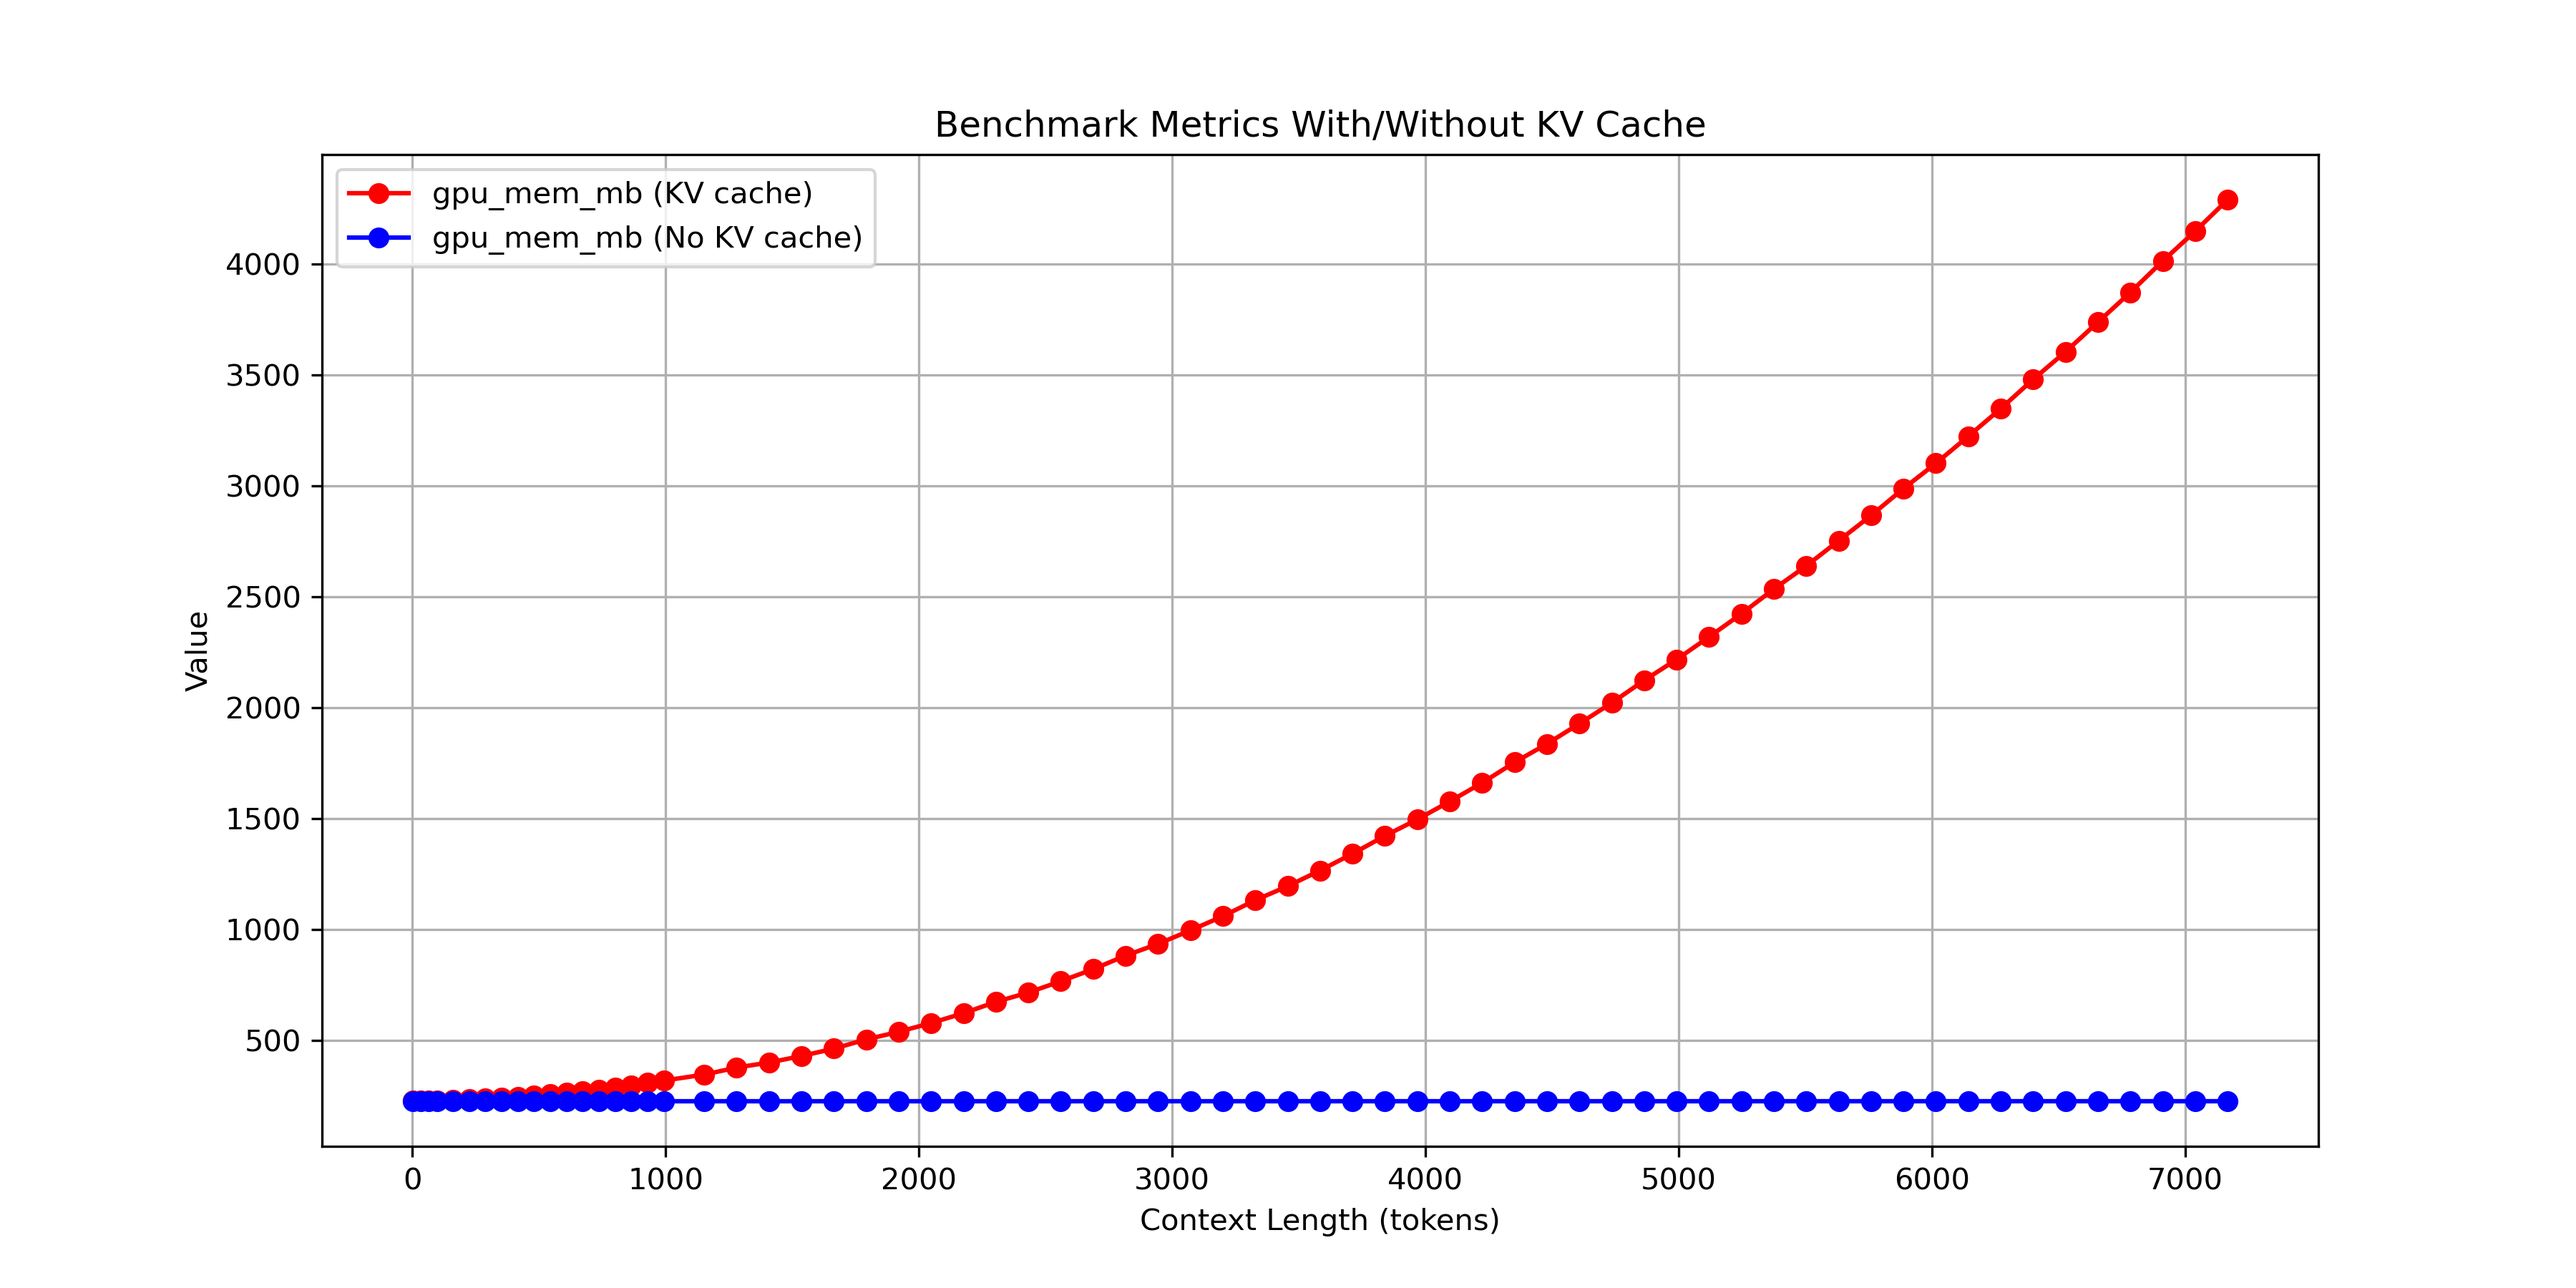
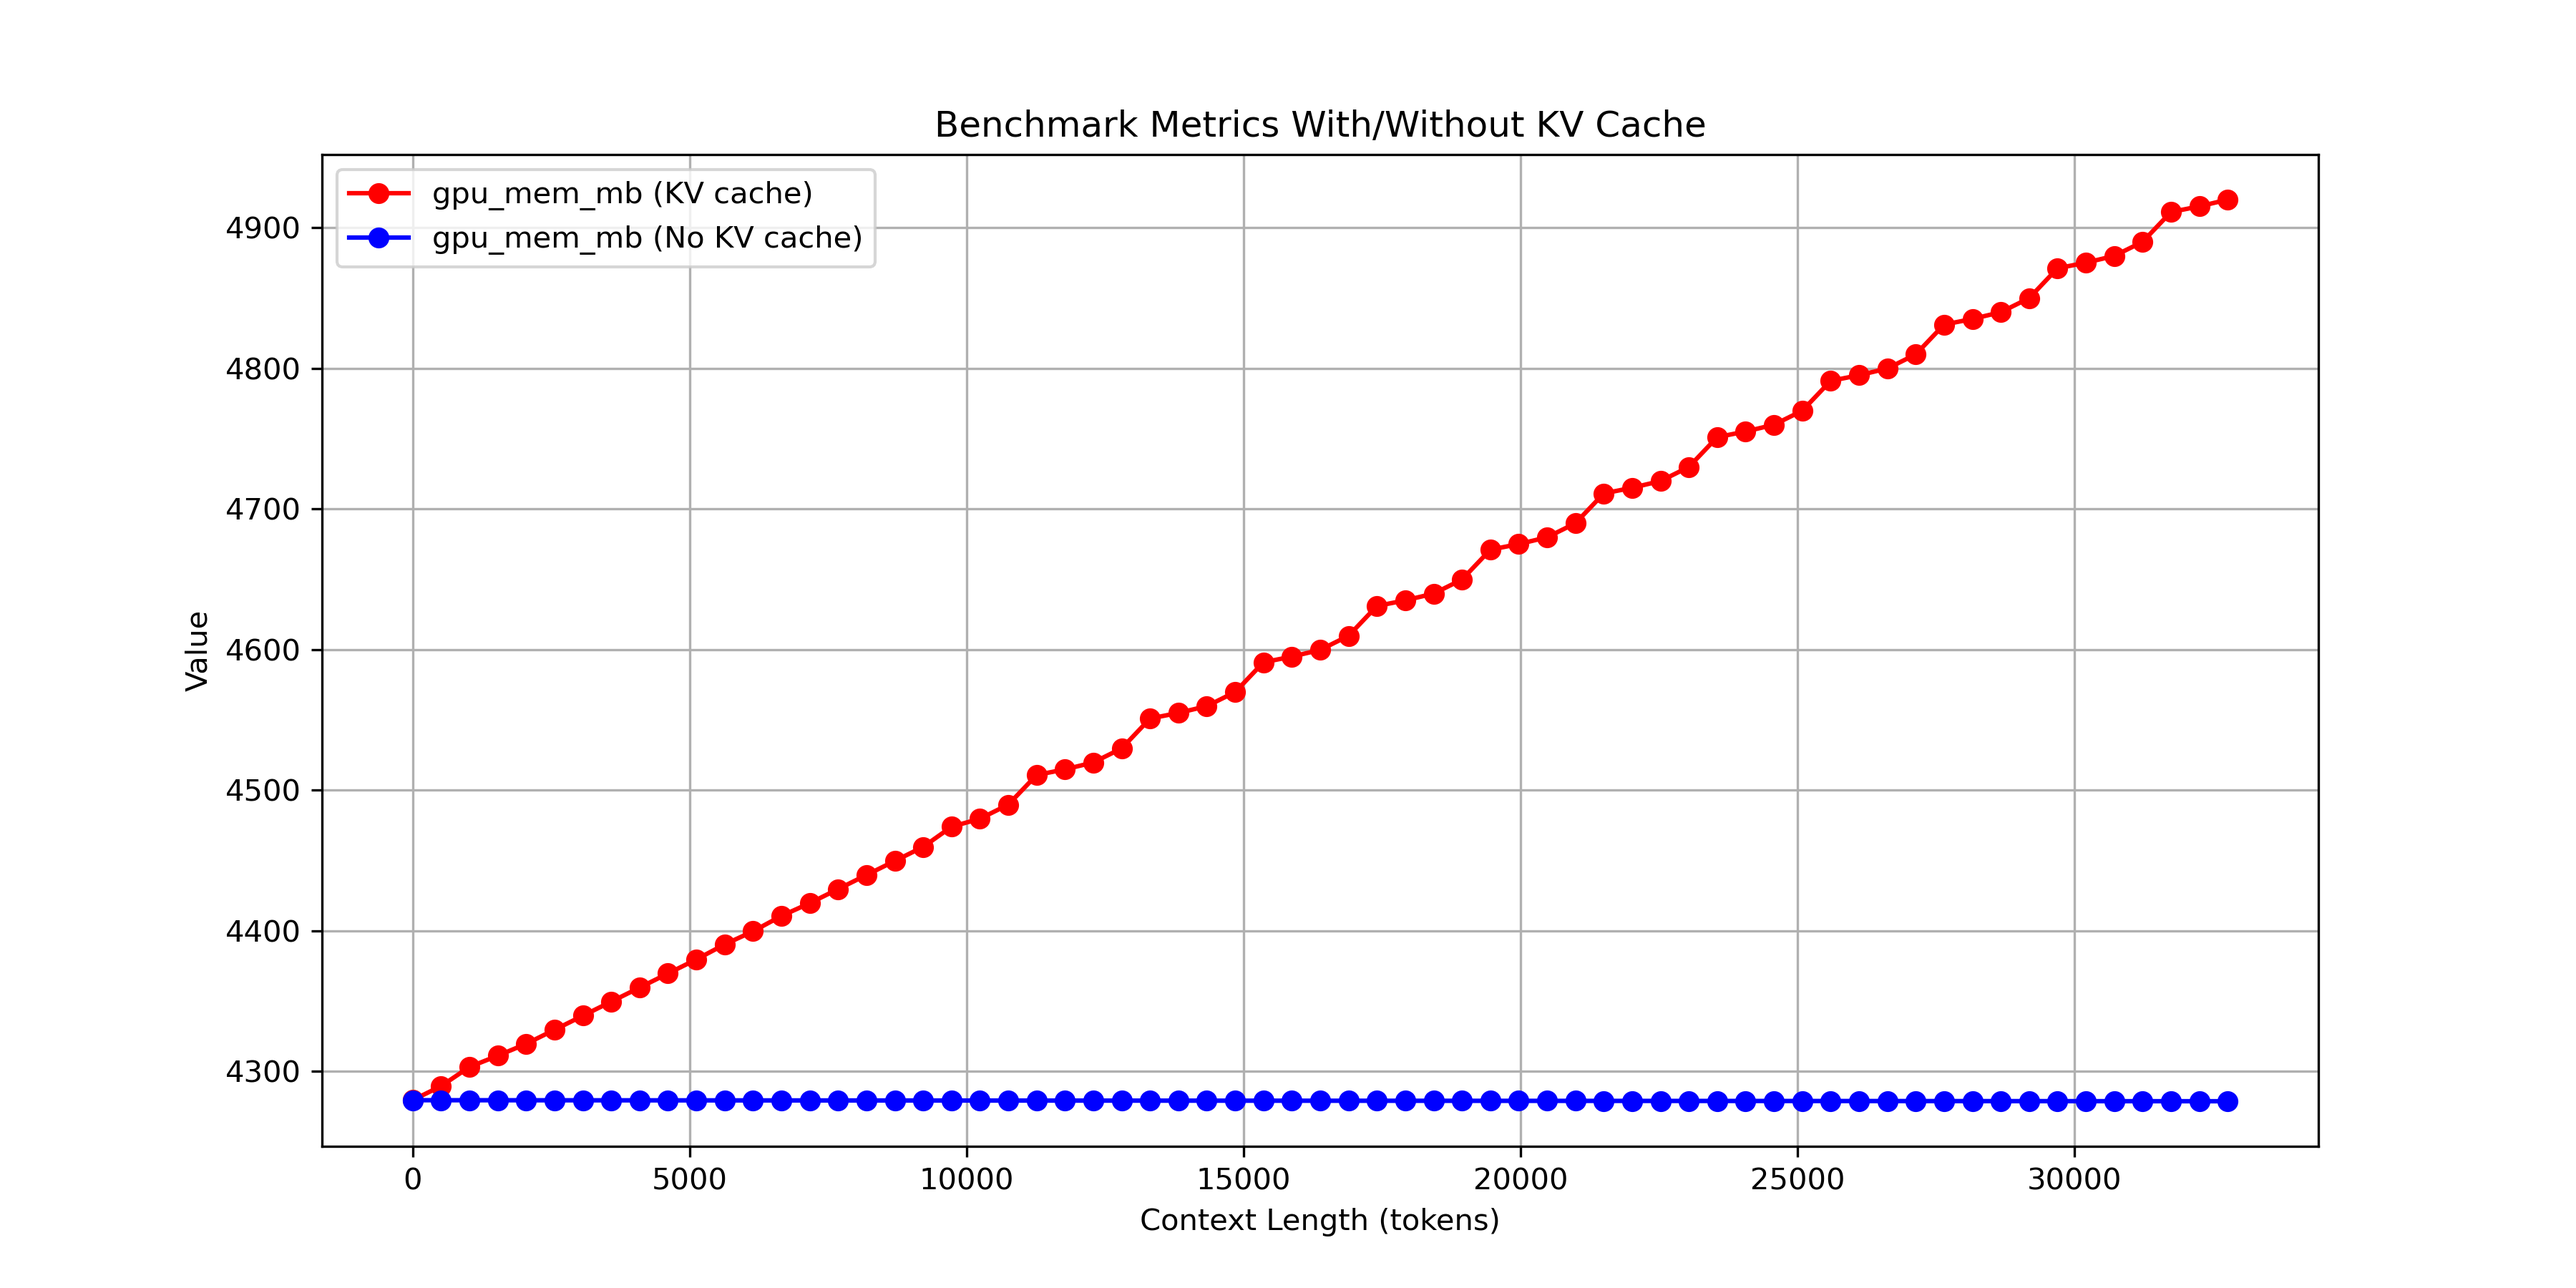
add flash attention

diff --git a/src/ai_playground/models/transformer/attention.py b/src/ai_playground/models/transformer/attention.py
@@ -1,5 +1,6 @@
 import torch
 import torch.nn as nn
+import torch.nn.functional as F
 
 
 class SelfAttention(nn.Module):
@@ -30,11 +31,20 @@ class SelfAttention(nn.Module):
 
 
 class MultiHeadAttention(nn.Module):
-    def __init__(self, embed_dim, n_head, block_size, attn_droupout, residual_droupout):
+    def __init__(
+        self,
+        embed_dim,
+        n_head,
+        block_size,
+        use_flash_attention,
+        attn_droupout,
+        residual_droupout,
+    ):
         super().__init__()
         self.embed_dim = embed_dim
         self.head_dim = embed_dim // n_head
         self.n_head = n_head
+        self.use_flash_attention = use_flash_attention
         self.last_attn = 0.0
 
         assert embed_dim % n_head == 0, "embed_dim must be divisible by n_head"
@@ -81,21 +91,32 @@ class MultiHeadAttention(nn.Module):
                 present = cache
 
         # Compute attention scores
-        atten = (
-            torch.matmul(q, k.transpose(-2, -1)) * self.scale
-        )  # (B, n_head, T, head_dim) @ (B, n_head, head_dim, T) -> (B, n_head, T, T)
-        key_len = k.size(2)
         # Training: T > 1
         # Prefill: T > 1
         # Decode: T == 1
-        if T > 1:
-            atten = atten.masked_fill(~self.mask[:T, :key_len], float("-inf"))
-        atten = torch.softmax(atten, dim=-1)  # (B, n_head, T, T)
-        self.last_attn = atten
-        atten = self.attn_dropout(atten)  # (B, n_head, T, T)
-        atten = torch.matmul(
-            atten, v
-        )  # (B, n_head, T, T) @ (B, n_head, T, head_dim) -> (B, n_head, T, head_dim)
+        if self.use_flash_attention:
+            atten = F.scaled_dot_product_attention(
+                q,
+                k,
+                v,
+                attn_mask=None,
+                dropout_p=self.attn_dropout.p if self.training else 0.0,
+                is_causal=(T > 1),
+            )
+        else:
+            atten = (
+                torch.matmul(q, k.transpose(-2, -1)) * self.scale
+            )  # (B, n_head, T, head_dim) @ (B, n_head, head_dim, T) -> (B, n_head, T, T)
+            key_len = k.size(2)
+
+            if T > 1:
+                atten = atten.masked_fill(~self.mask[:T, :key_len], float("-inf"))
+            atten = torch.softmax(atten, dim=-1)  # (B, n_head, T, T)
+            self.last_attn = atten
+            atten = self.attn_dropout(atten)  # (B, n_head, T, T)
+            atten = torch.matmul(
+                atten, v
+            )  # (B, n_head, T, T) @ (B, n_head, T, head_dim) -> (B, n_head, T, head_dim)
 
         # Concatenate heads and project
         atten = (

diff --git a/experiments/kv_cache/kv_prefill_vs_decode.py b/experiments/kv_cache/kv_prefill_vs_decode.py
@@ -13,12 +13,7 @@ if TYPE_CHECKING:
 
 def get_seq(bm: str = "perf"):
     seq_lens = []
-    # Small lengths: 1 → 128 (step 32)
-    seq_lens += list(range(1, 129, 32))
-    # Medium lengths: 128 → 1024 (step 64)
-    seq_lens += list(range(160, 1025, 64))
-    # Large lengths: 1024 → 7168 (step 128)
-    seq_lens += list(range(1152, 7169, 128))
+    seq_lens += list(range(1, 33281, 512))
     if bm == "perf":
         seq_lens.reverse()
     return seq_lens
@@ -111,23 +106,41 @@ def run_training(config: "ConfigProtocol", metric_fn: Callable, filename: str):
 
 def plot_metrics(metrics_kv, metrics_nokv, filename: str):
     plt.figure(figsize=(12, 6))
-    keys = list(metrics_kv.keys())
-    keys.remove("ctx_len")
-    for key in keys:
+
+    ctx = metrics_kv["ctx_len"]
+    keys = [k for k in metrics_kv.keys() if k != "ctx_len"]
+
+    linestyles = ["-", "--", "-.", ":"]
+    markers = ["o", "s", "^", "d"]
+
+    for i, key in enumerate(keys):
+        style = linestyles[i % len(linestyles)]
+        marker = markers[i % len(markers)]
+
         plt.plot(
-            metrics_kv["ctx_len"], metrics_kv[key], "r-o", label=f"{key} (KV cache)"
+            ctx,
+            metrics_kv[key],
+            color="red",
+            linestyle=style,
+            marker=marker,
+            label=f"{key} (KV cache)",
         )
+
         plt.plot(
-            metrics_nokv["ctx_len"],
+            ctx,
             metrics_nokv[key],
-            "b-o",
+            color="blue",
+            linestyle=style,
+            marker=marker,
             label=f"{key} (No KV cache)",
         )
+
     plt.xlabel("Context Length (tokens)")
     plt.ylabel("Value")
     plt.title("Benchmark Metrics With/Without KV Cache")
     plt.grid(True)
     plt.legend()
+
     plt.savefig(filename, dpi=300)
     plt.show()
 

diff --git a/src/ai_playground/models/miniGPT.py b/src/ai_playground/models/miniGPT.py
@@ -28,13 +28,16 @@ class MiniGPT(nn.Module):
         self.transformer_blocks = nn.Sequential(
             *[
                 TransformerBlock(
-                    self.config.model.model_kwargs["n_embed"],
-                    self.config.model.model_kwargs["n_head"],
-                    self.config.model.model_kwargs["block_size"],
-                    self.config.model.model_kwargs["hidden_dim"],
-                    self.config.model.model_kwargs["attn_dropout"],
-                    self.config.model.model_kwargs["residual_dropout"],
-                    self.config.model.model_kwargs["ffn_dropout"],
+                    embed_dim=self.config.model.model_kwargs["n_embed"],
+                    n_head=self.config.model.model_kwargs["n_head"],
+                    block_size=self.config.model.model_kwargs["block_size"],
+                    hidden_dim=self.config.model.model_kwargs["hidden_dim"],
+                    use_flash_attention=self.config.model.model_kwargs[
+                        "use_flash_attention"
+                    ],
+                    attn_dropout=self.config.model.model_kwargs["attn_dropout"],
+                    residual_dropout=self.config.model.model_kwargs["residual_dropout"],
+                    ffn_dropout=self.config.model.model_kwargs["ffn_dropout"],
                 )
                 for _ in range(self.config.model.model_kwargs["n_layer"])
             ]

diff --git a/src/ai_playground/models/transformer/transformer.py b/src/ai_playground/models/transformer/transformer.py
@@ -24,13 +24,19 @@ class TransformerBlock(nn.Module):
         n_head,
         block_size,
         hidden_dim,
+        use_flash_attention,
         attn_dropout,
         residual_dropout,
         ffn_dropout,
     ):
         super().__init__()
         self.attention = MultiHeadAttention(
-            embed_dim, n_head, block_size, attn_dropout, residual_dropout
+            embed_dim=embed_dim,
+            n_head=n_head,
+            block_size=block_size,
+            use_flash_attention=use_flash_attention,
+            attn_droupout=attn_dropout,
+            residual_droupout=residual_dropout,
         )
         self.ffn = FFN(embed_dim, hidden_dim, ffn_dropout)
         self.linear1 = nn.LayerNorm(embed_dim)

diff --git a/experiments/kv_cache/README.md b/experiments/kv_cache/README.md
@@ -50,7 +50,7 @@ python -u kv_prefill_vs_decode.py
 ### Prefill vs Decode
 
 - **Prefill with KV cache** grows quadratically `(O(n²))` with context length, reflecting full attention computation for all past tokens.
-- **Decode with KV cache** is effectively constant in this small model because compute is tiny and memory/kernel overhead dominates. On larger models, it would scale linearly `(O(n))` as each new token only attends over cached KV pairs.
+- **Decode with KV cache** is effectively constant for a small model because compute is tiny and memory/kernel overhead dominates. On larger models, it scales linearly `(O(n))` as each new token only attends over cached KV pairs.
 
 ### KV vs No KV
 
